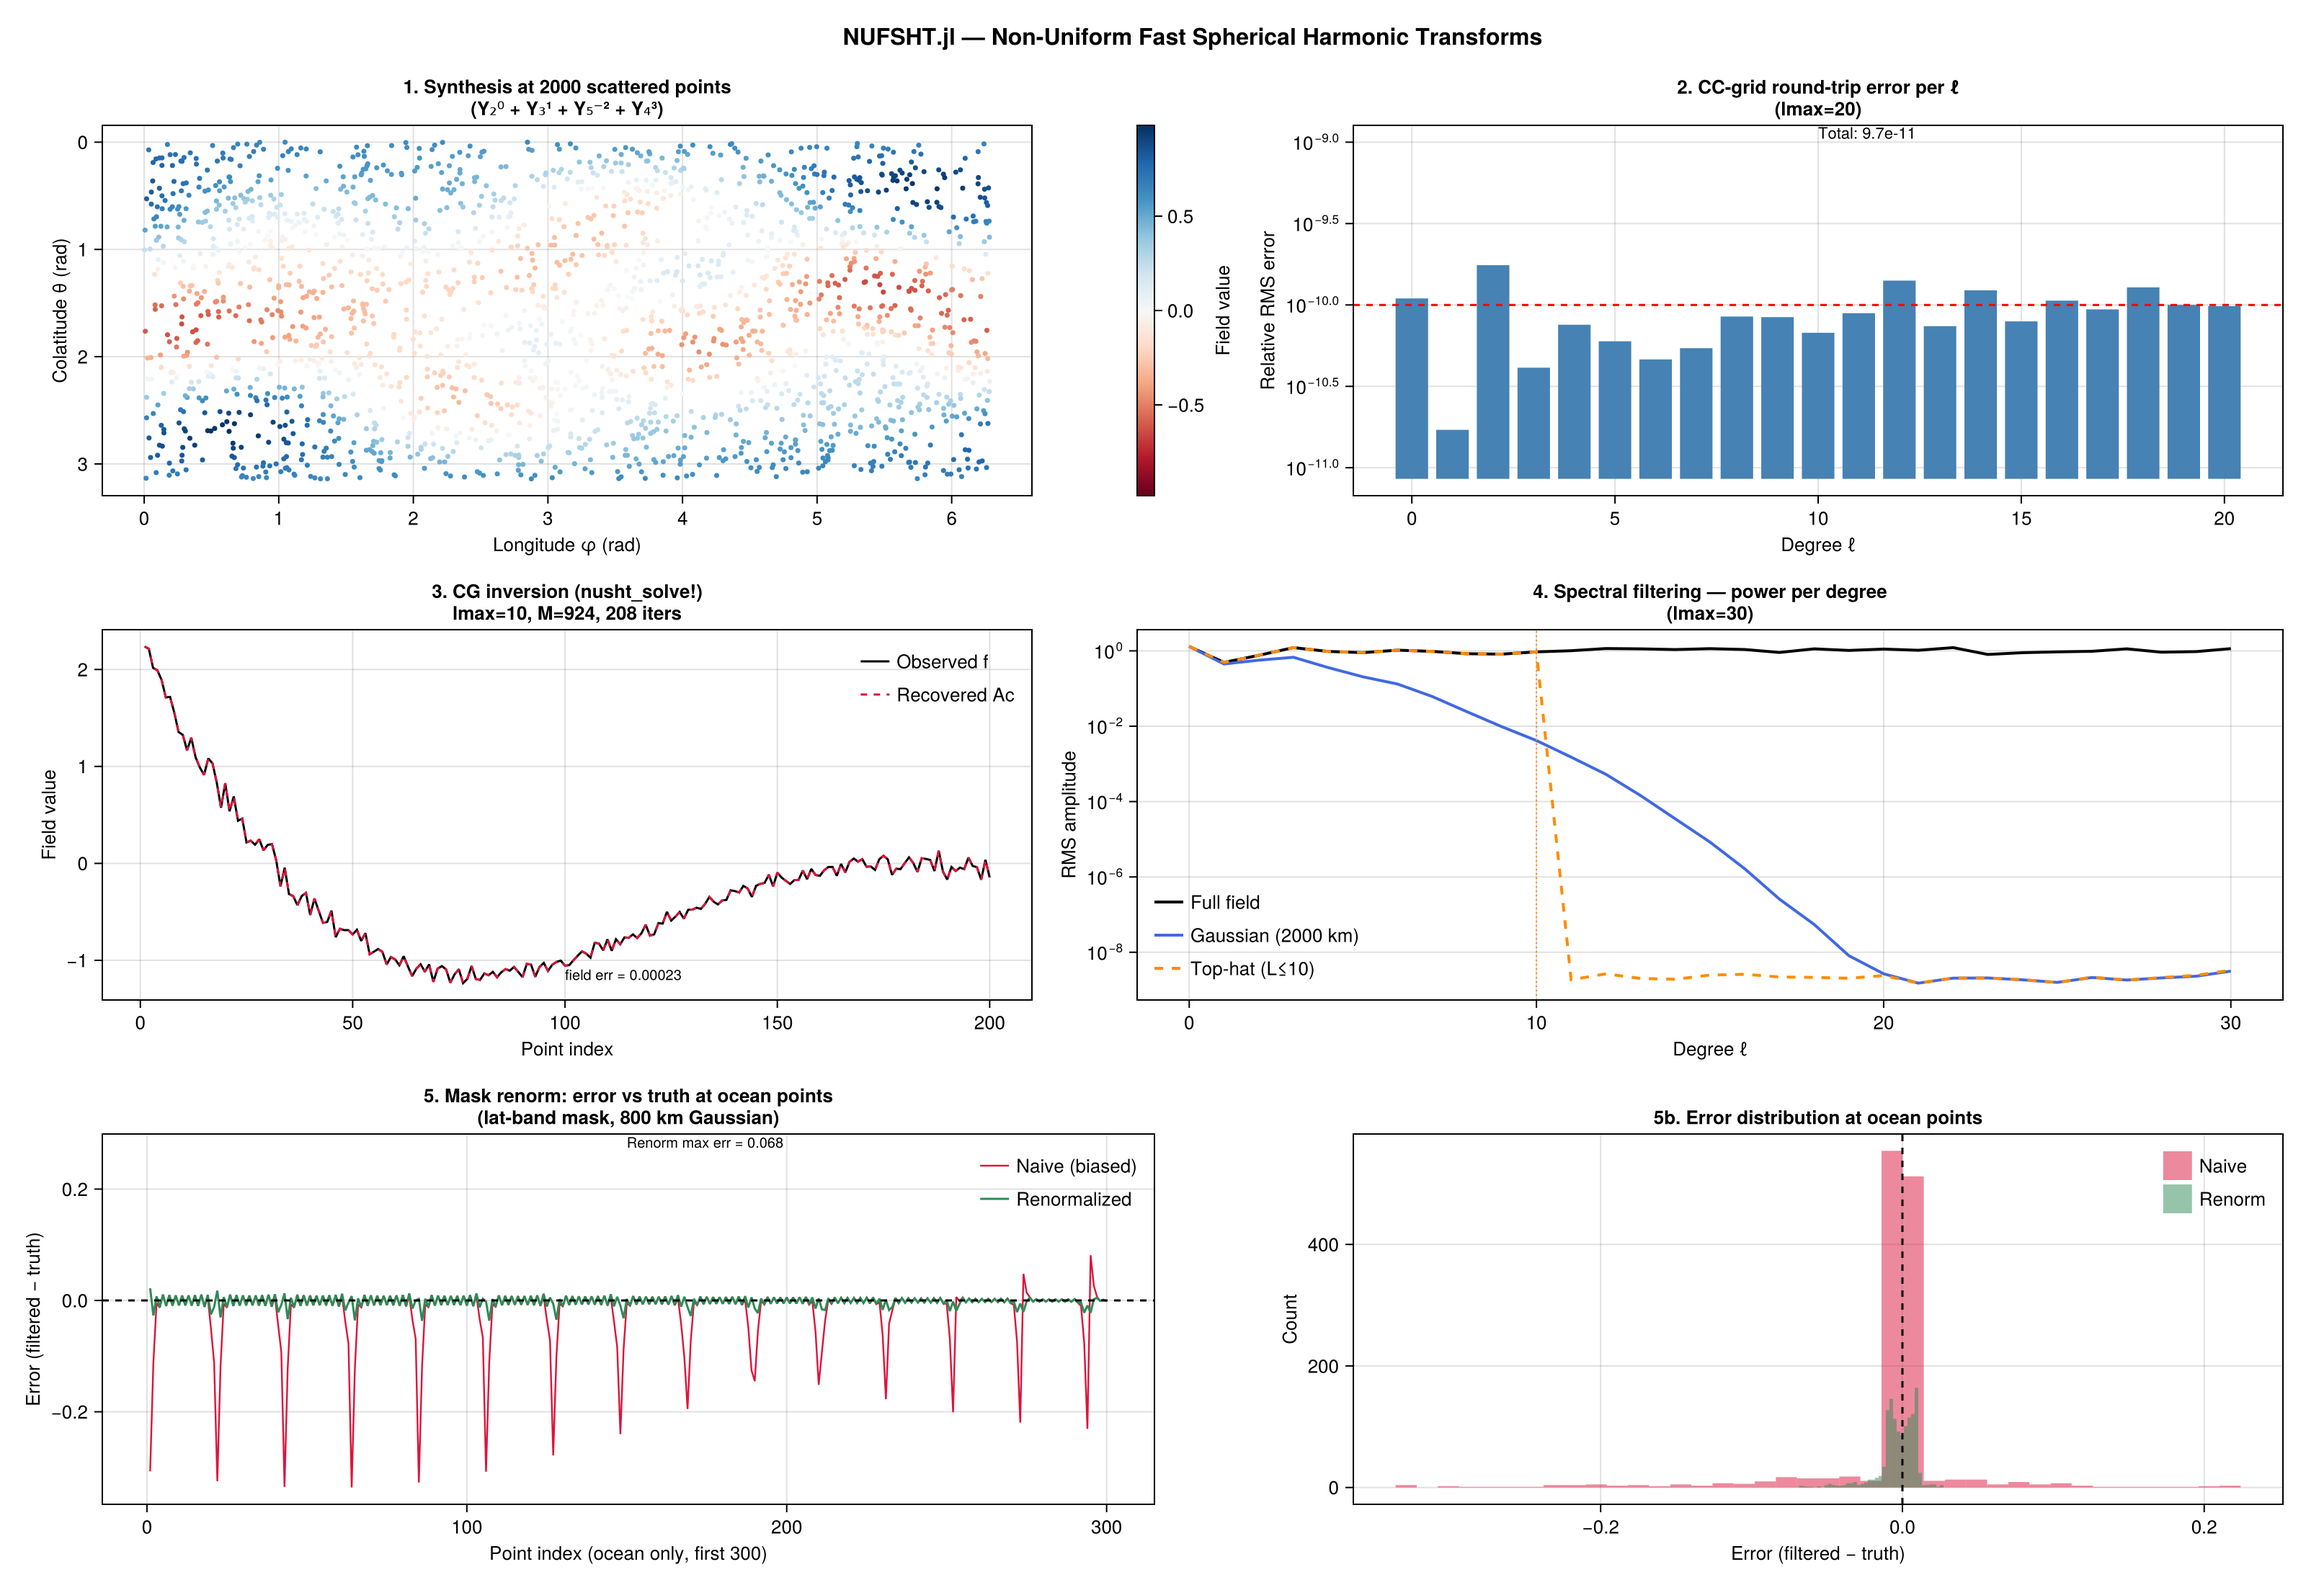
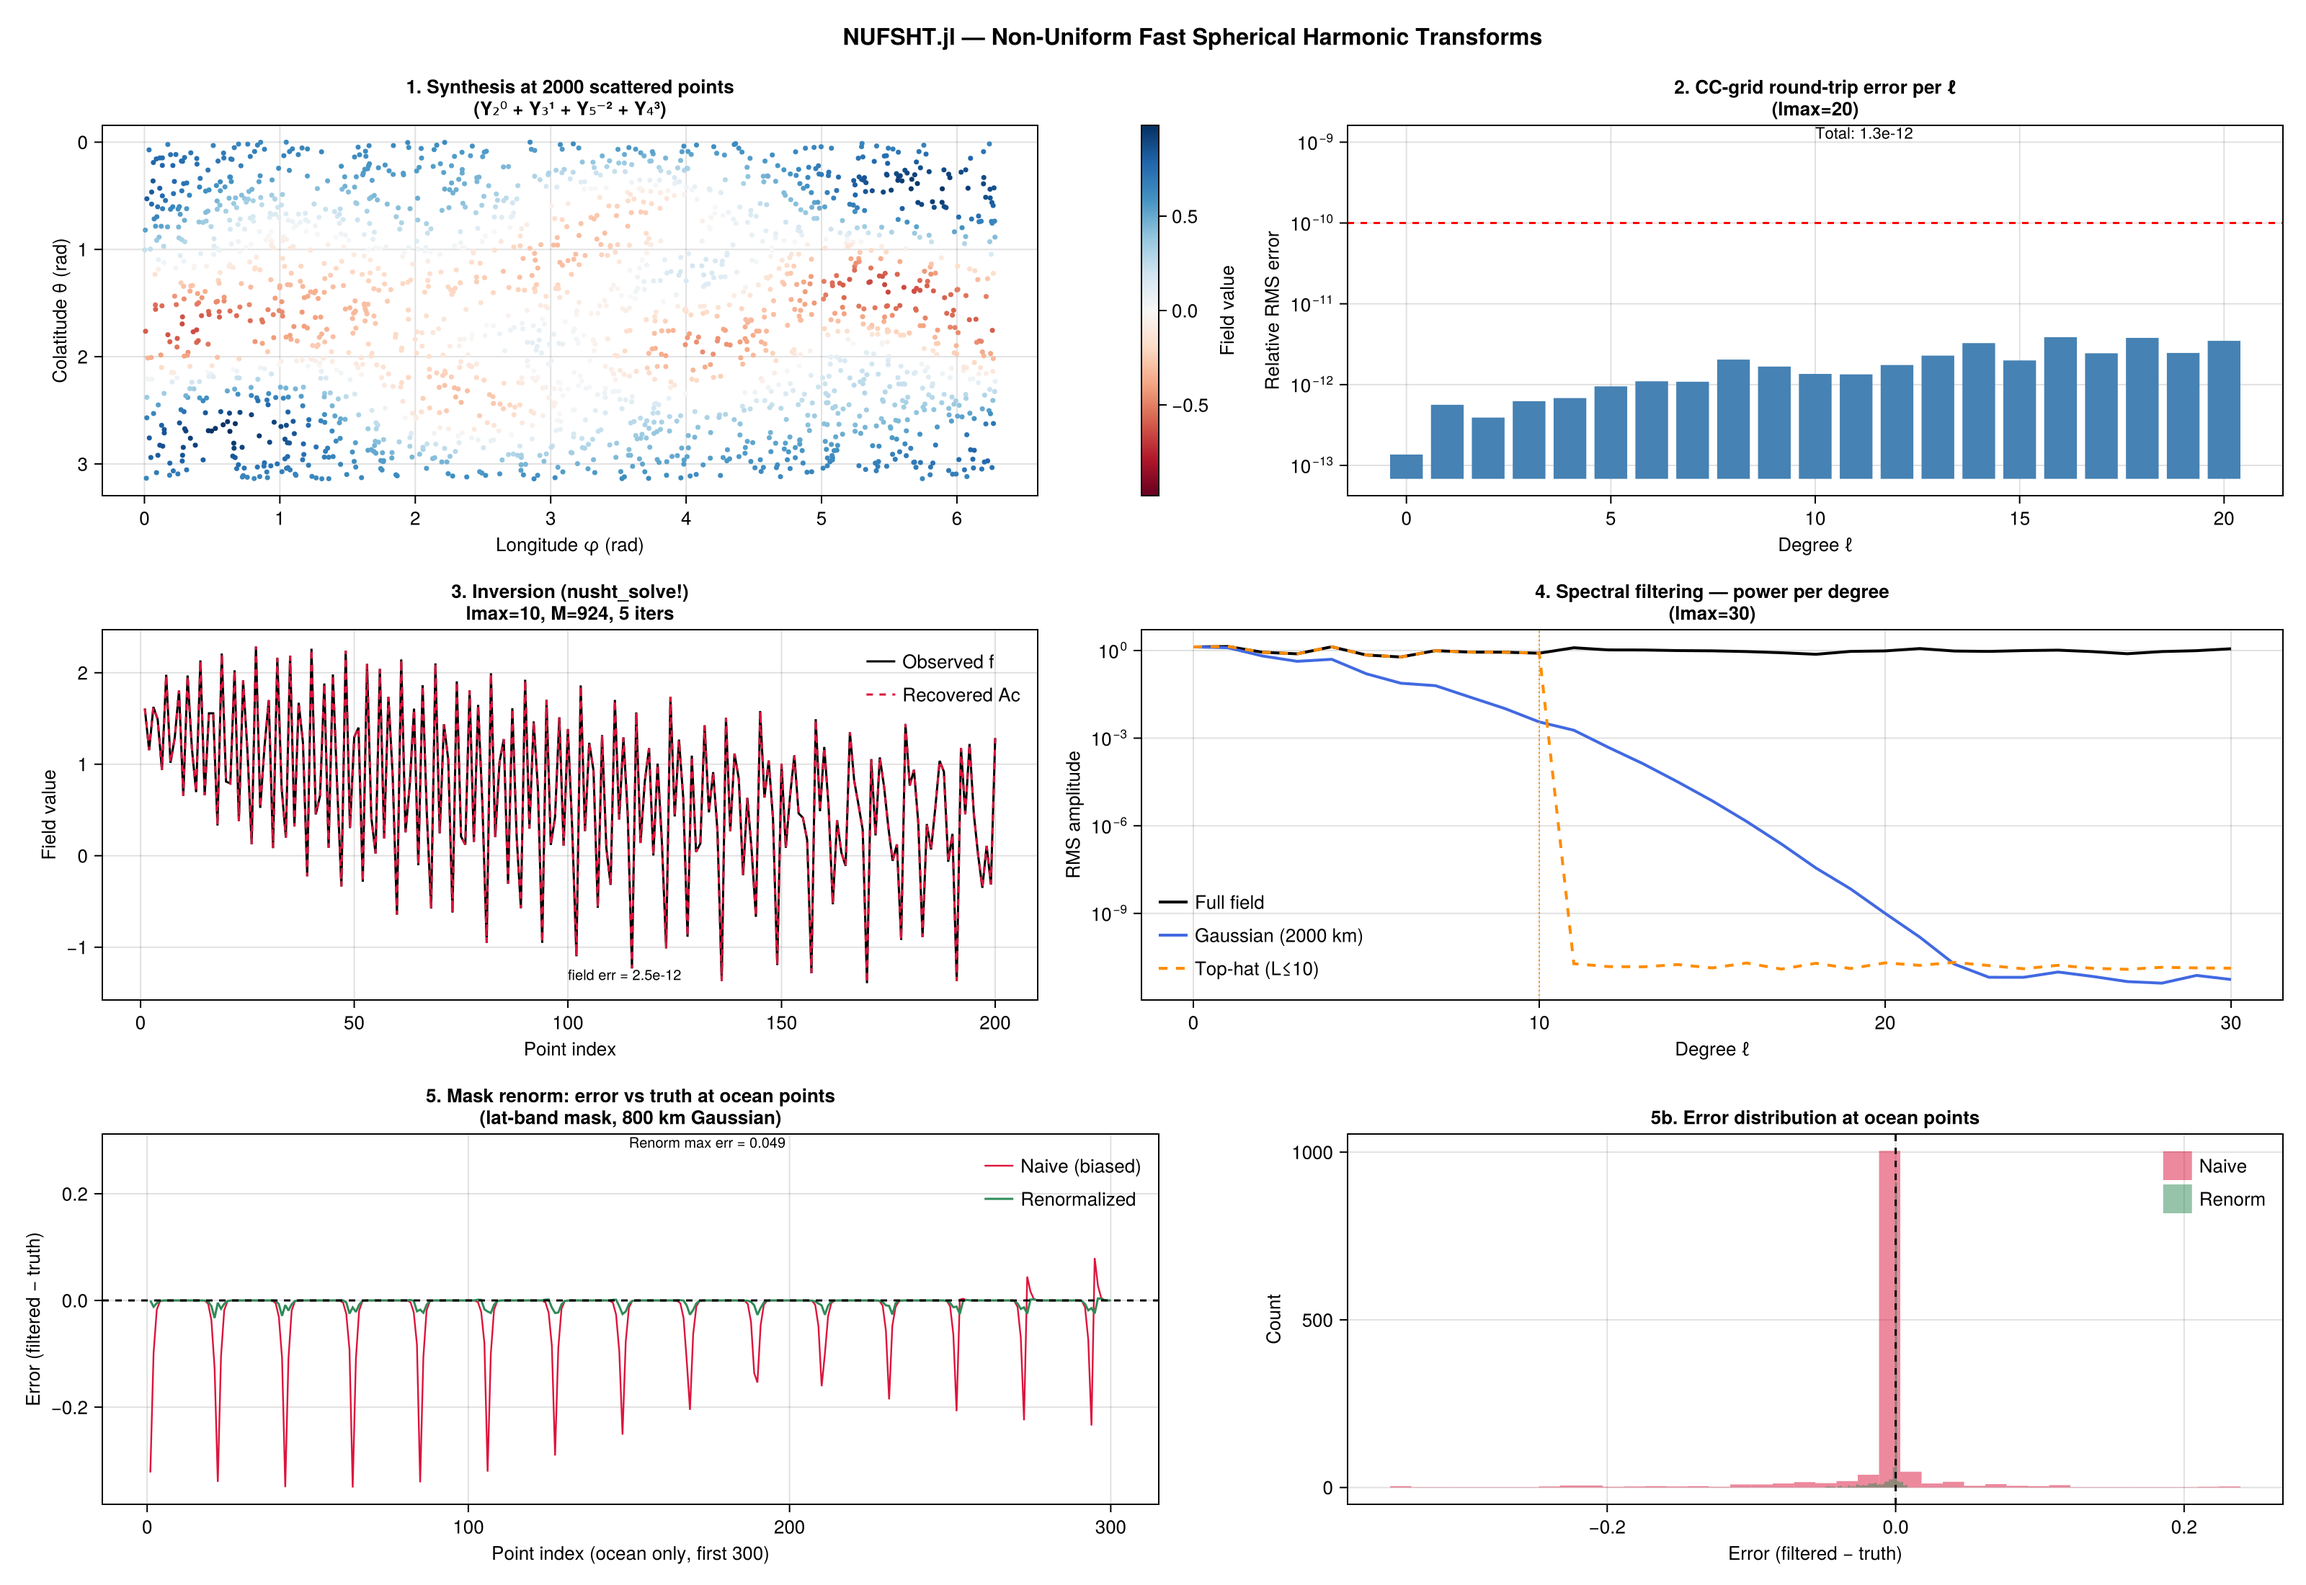
fit coefficients in the examples instead of applying the adjoint
`nusht_type1!` is `A†`, so the CC-grid round trip and the per-degree power
spectra now go through `nusht_solve!`. The inversion example used an index-linked
spiral, whose design matrix is near-degenerate (cond(A) ≈ 1e8): it converged in
116 iterations to a field error of 3.8e-4 with meaningless coefficients. On a
golden-angle lattice it takes 5 iterations to 2.5e-12 in both field and
coefficients, so the example asserts coefficient recovery as well.

diff --git a/README.md b/README.md
@@ -198,8 +198,8 @@ f = zeros(length(θ))
 nusht_type2!(f, C_true, plan)     # synthesise
 
 C_rec = similar(plan.C)
-nusht_type1!(C_rec, f, plan)      # analyse (exact inverse on CC grid)
-# maximum(abs.(C_rec .- C_true)) ≈ 7e-11
+nusht_solve!(C_rec, f, plan; rtol=1e-12)   # fit the l ≤ lmax coefficients
+# maximum(abs.(C_rec .- C_true)) ≈ 1e-11
 ```
 
 ### Exact inversion at arbitrary scattered points
@@ -256,9 +256,9 @@ nusht_filter_renorm!(f_out, mask, filt, plan)   # divide by filtered mask
 |----------|-------------|
 | `make_plan([FE,] θ, φ, lmax; tol)` | Construct pre-allocated plan for M scattered points; `FE` real or complex |
 | `nusht_type2!(f, C, plan)` | Synthesis: SH coefficients → scattered field values |
-| `nusht_type1!(C, f, plan)` | Adjoint analysis (exact inverse on CC grid; adjoint elsewhere) |
+| `nusht_type1!(C, f, plan)` | Adjoint `A†` (the transpose, not an inverse) |
 | `nusht_solve!(C, f, plan; maxiter, rtol, verbose)` | Exact LSMR inversion at any scattered points |
-| `nusht_filter!(f_out, f_in, filter, plan)` | Spectral filter: type1 → multiply → type2 |
+| `nusht_filter!(f_out, f_in, filter, plan; ws)` | Spectral filter: solve → multiply → type2 |
 | `nusht_filter_renorm!(f_out, mask, filter, plan)` | Correct land-mask bias after `nusht_filter!` |
 | `GaussianTransfer(σ²)` | Gaussian filter `H(ℓ) = exp(-ℓ(ℓ+1)σ²/2)` |
 | `gaussian_from_scale(scale_m)` | `GaussianTransfer` from physical scale in metres |

diff --git a/docs/src/index.md b/docs/src/index.md
@@ -62,7 +62,7 @@ C_rec, iters, rel_res = nusht_solve!(C_rec, f, plan; rtol=1e-6)
 | Scenario | Function |
 |----------|----------|
 | Evaluate SH expansion at scattered points | `nusht_type2!` |
-| Invert / analyse on Clenshaw-Curtis grid | `nusht_type1!` |
+| Apply the adjoint `A†` | `nusht_type1!` |
 | Invert at arbitrary scattered points | `nusht_solve!` |
 | Apply spectral filter at scattered points | `nusht_filter!` |
 | Filter with land/ocean mask | `nusht_filter!` + `nusht_filter_renorm!` |
